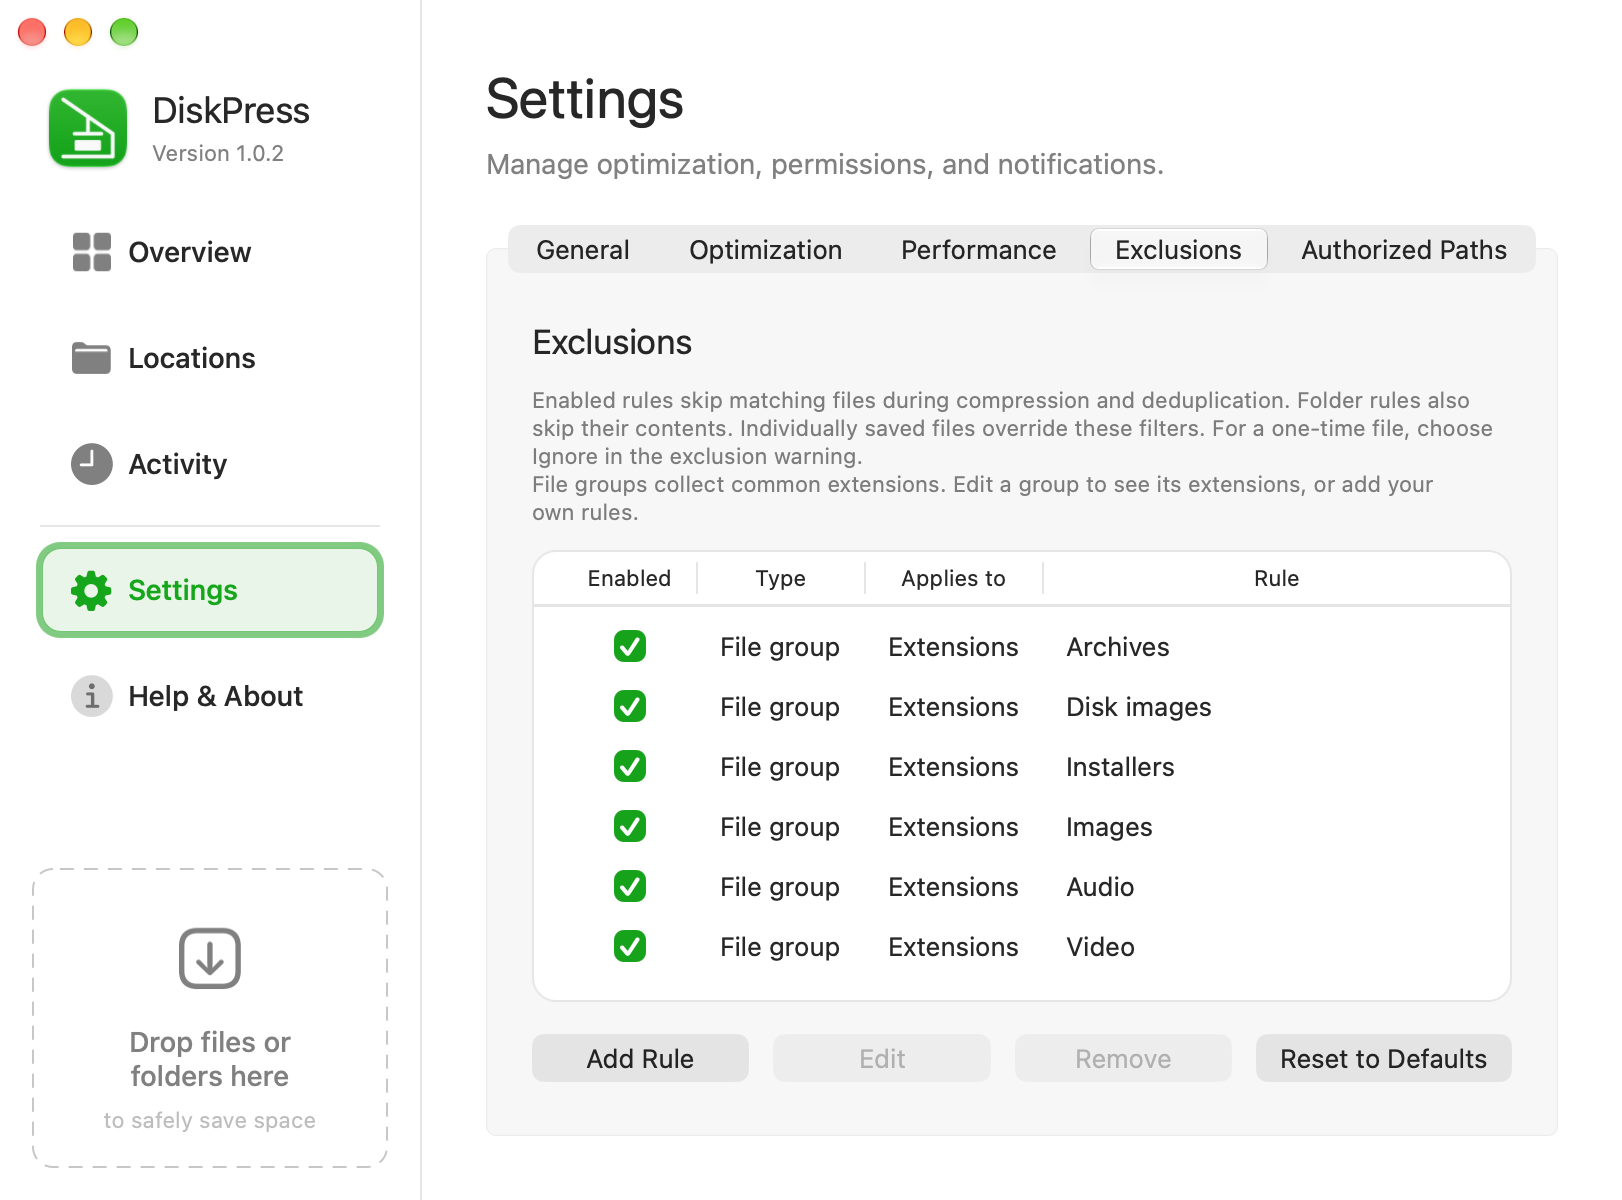
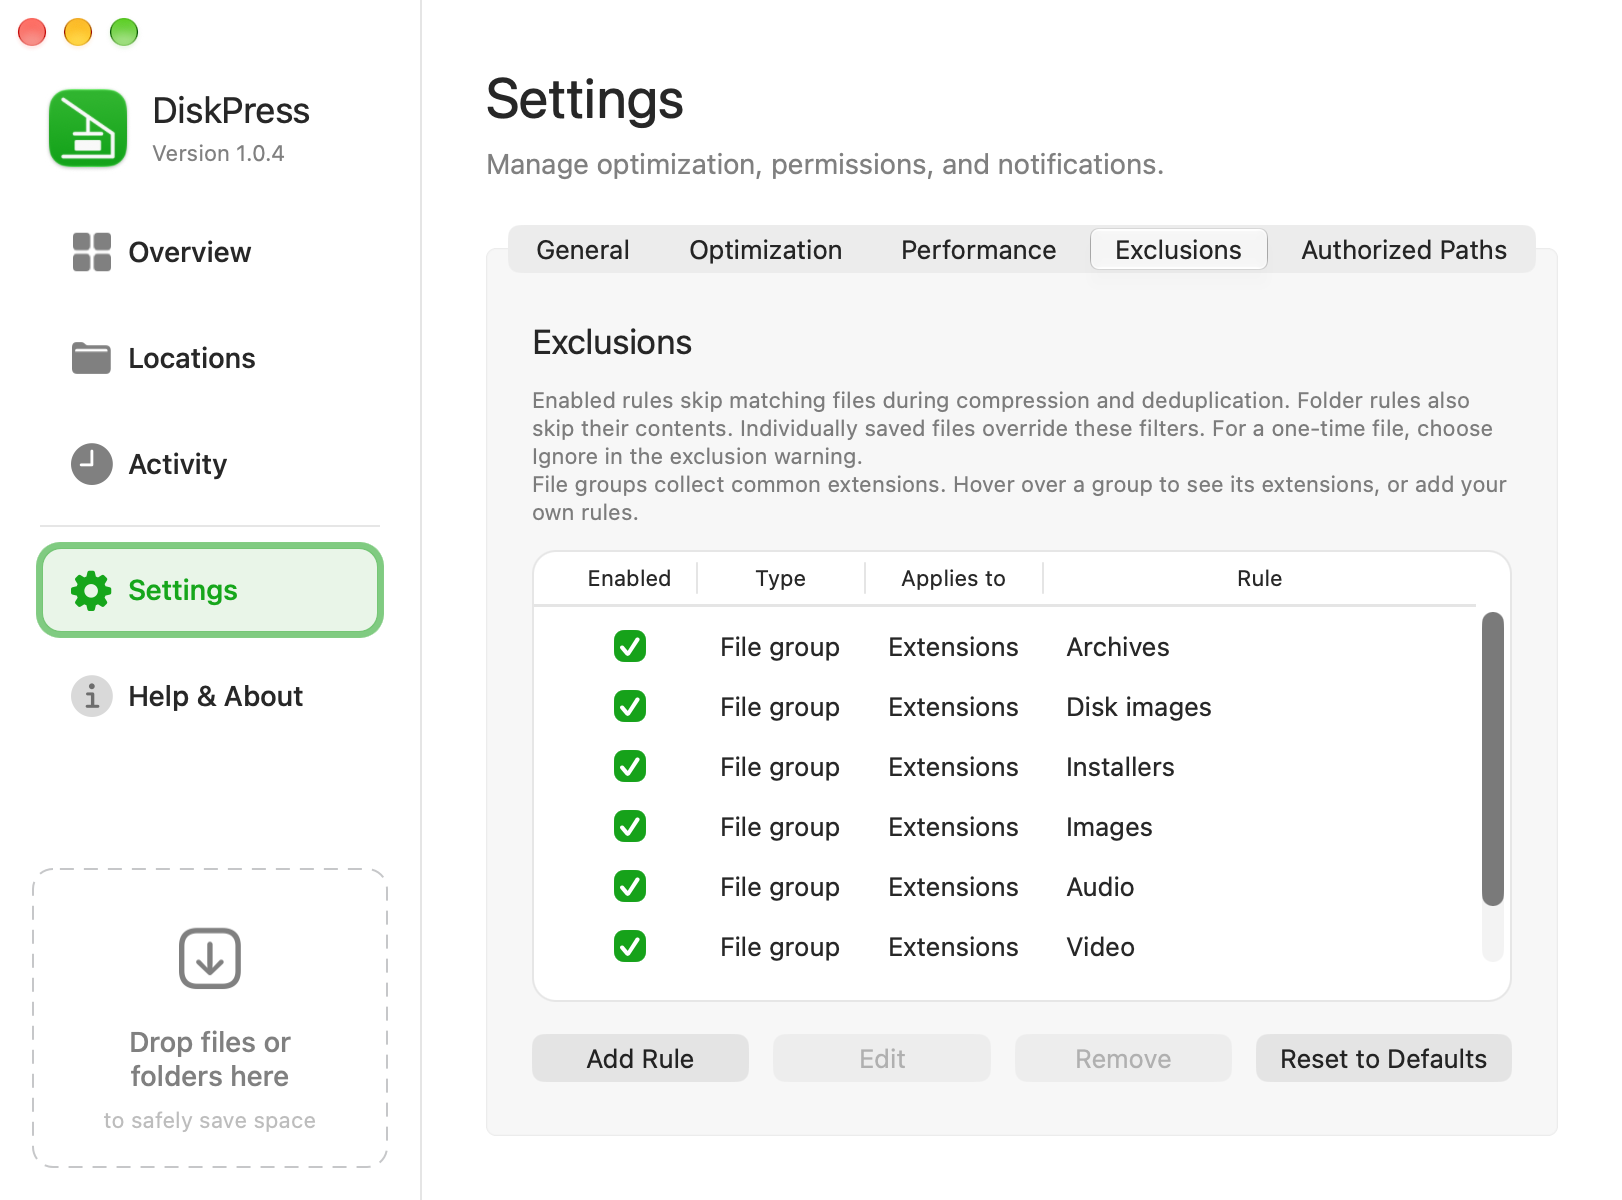
Add v1.0.4 release notes and refresh screenshots

Changed region(s): [[0.5857, 0.4008, 0.9248, 0.4317], [0.894, 0.4933, 0.9248, 0.7708], [0.7707, 0.4625, 0.8015, 0.4933]]

diff --git a/src/styles/content.css b/src/styles/content.css
@@ -76,9 +76,6 @@
   .screenshot-figure p { color: var(--muted); font-size: .9375rem; }
   .screenshot-figure img { width: 100%; height: auto; }
   .screenshot-disclaimer { margin-top: var(--screenshot-caption-gap); color: var(--muted); font-size: .875rem; text-align: center; }
-  @supports (grid-template-rows: subgrid) {
-    .screenshot-figure { grid-row: span 2; grid-template-rows: subgrid; }
-  }
   .companion-section { padding-block: 24px; }
   .companion-panel { padding: 40px; display: grid; grid-template-columns: 1fr 1fr; align-items: start; gap: 40px; background: var(--accent-bg); border: 1px solid color-mix(in srgb, var(--accent) 25%, transparent); border-radius: 20px; }
   .companion-panel > div { display: grid; gap: 20px; }
